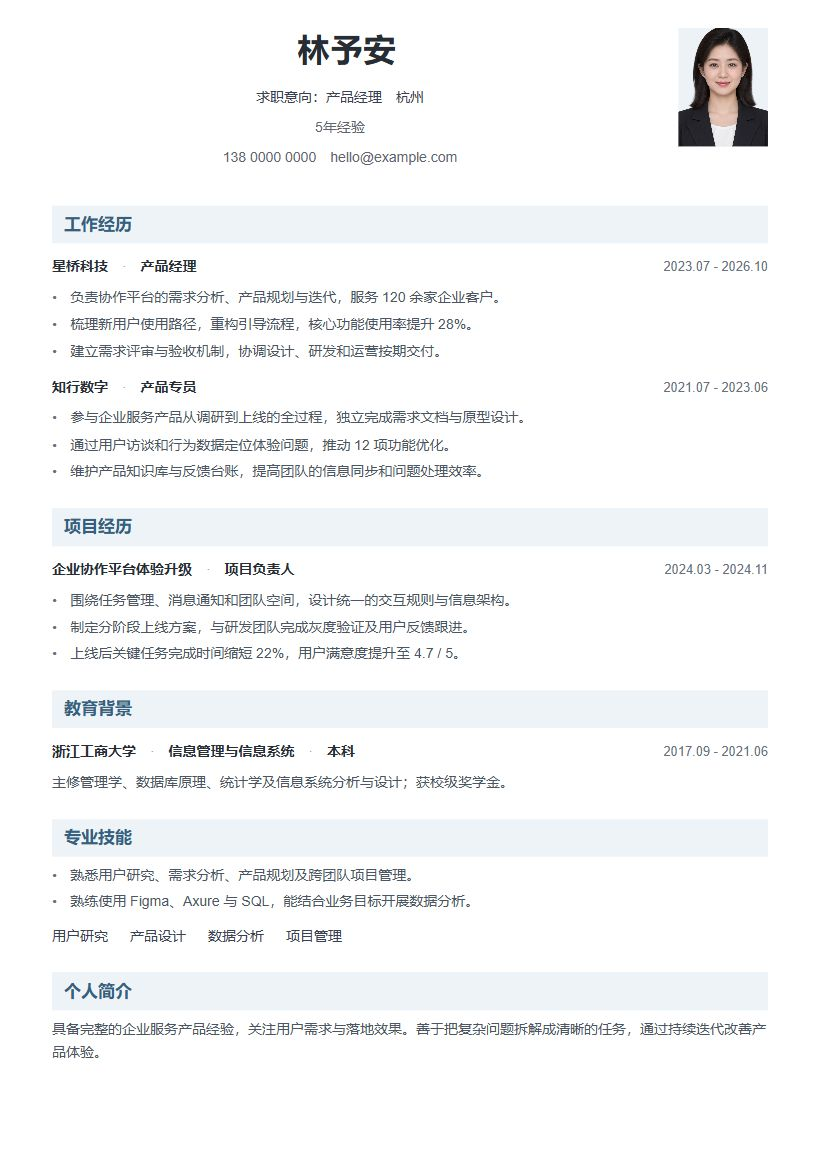
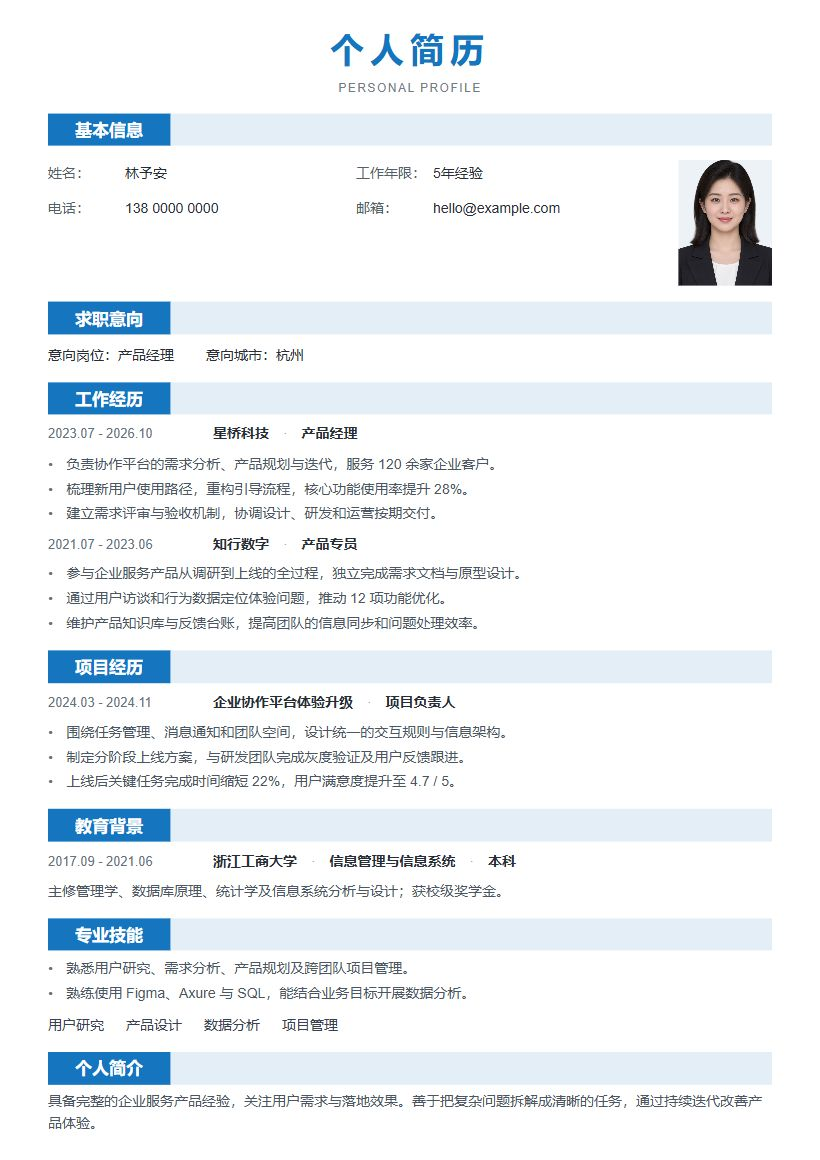
Restore classic blue layout and expose mobile editing on entry

diff --git a/assets/js/standard-renderer.js b/assets/js/standard-renderer.js
@@ -14,14 +14,17 @@ function age(birth){
 }
 
 /** Native HTML rendering of the shared resume data model. No reference-site assets. */
-export function renderStandard(resume){
+export function renderStandard(resume,{layout}={}){
+  const bands=layout==='bands';
   const settings=resume.setData||{},basic=resume.basicInfo||{};
   const size=number(settings.fontSize,10,18,14),gap=number(settings.mm,5,50,24),padding=number(settings.pp,10,80,52),leading=number(settings.lineHeight,1.3,2.2,1.7);
   const color=/^#[\da-f]{6}$/i.test(settings.skin||'')?settings.skin:'#284967';
   const order=getModuleOrder(resume),modules=new Map((resume.moduleData||[]).map(mod=>[mod.moduleName,mod]));
-  const intent=modules.get('yixiang'),merged=order.indexOf('yixiang')===order.indexOf('basic')+1;
+  const intent=modules.get('yixiang'),merged=!bands&&order.indexOf('yixiang')===order.indexOf('basic')+1;
+  const channels=color.slice(1).match(/../g).map(value=>parseInt(value,16)).join(',');
+  const heading=label=>`<div class="module_tit" style="font-size:${size+3}px;color:${color};border-color:${color}${bands?`;background:rgba(${channels},.12)`:''}">${bands?`<b>${escape(label)}</b>`:escape(label)}</div>`;
   const rich=content=>content?`<div class="ql-editor" style="font-size:${size}px;line-height:${leading};margin-top:7px">${content}</div>`:'';
-  const section=(mod,content)=>mod?.visible&&content?`<section id="${escape(mod.moduleName)}" class="resume_content" style="margin-top:${gap}px"><div class="module_tit" style="font-size:${size+3}px;color:${color};border-color:${color}">${escape(mod.moduleValue||'')}</div>${content}</section>`:'';
+  const section=(mod,content)=>mod?.visible&&content?`<section id="${escape(mod.moduleName)}" class="resume_content" style="margin-top:${gap}px">${heading(mod.moduleValue||'')}${content}</section>`:'';
   const timeline=mod=>{
     const rows=(Array.isArray(mod.data)?mod.data:[]).filter(item=>item&&(item.name||item.job||item.major||item.content||item.timeStart||item.timeEnd));
     return rows.map(item=>{
@@ -30,6 +33,13 @@ export function renderStandard(resume){
     }).join('');
   };
   const header=()=>{
+    if(bands){
+      const experience=basic.workYears!==''&&basic.workYears!==null&&basic.workYears!==undefined&&Number(basic.workYears)>=0?WORK_YEARS[Number(basic.workYears)+1]:'';
+      const fields=[['姓名',basic.name||'你的姓名'],[basic.isAge===false?'出生年月':'年龄',basic.isAge===false?basic.birthday:age(basic.birthday)],['性别',optionalLabel(SEX,basic.sex)],['工作年限',experience],['电话',basic.mobile],['邮箱',basic.email],['民族',basic.minzu],['籍贯',basic.jiguan],['政治面貌',optionalLabel(POLITICS,basic.zhengzhi)],['婚姻状况',optionalLabel(MARRIAGE,basic.hunyin)],['身高',basic.height?`${basic.height}cm`:''],['体重',basic.weight?`${basic.weight}kg`:''],...(Array.isArray(basic.make)?basic.make:[]).filter(item=>item?.value).map(item=>[item.keyValue||'',item.value])];
+      const rows=fields.filter(([,value])=>value!==''&&value!==null&&value!==undefined).map(([label,value])=>`<dd><span class="profile-label">${escape(label)}</span><span${label==='姓名'?' id="myname"':''}>${escape(value)}</span></dd>`).join('');
+      const photo=basic.photoShow?`<div class="photo_box${basic.photo?'':' is-default'}" data-photo-slot title="点击更换照片">${basic.photo?`<img src="${escape(basic.photo)}" alt="照片">`:'<span class="standard-photo-placeholder">添加照片</span>'}</div>`:'';
+      return `<section id="basicInfo" class="resume_content standard-basic" style="margin-top:${gap}px">${heading('基本信息')}<div class="basic_info_box${basic.photoShow?' has-photo':''}"><dl class="basic_info_grid">${rows}</dl>${photo}</div></section>`;
+    }
     const extra=(Array.isArray(basic.make)?basic.make:[]).filter(item=>item?.value).map(item=>`${item.keyValue||''}：${item.value}`);
     const profile=[basic.isAge===false?basic.birthday:age(basic.birthday),optionalLabel(SEX,basic.sex),basic.minzu,optionalLabel(MARRIAGE,basic.hunyin),basic.height?`${basic.height}cm`:'',basic.weight?`${basic.weight}kg`:'',optionalLabel(POLITICS,basic.zhengzhi),basic.jiguan,Number(basic.workYears)>=0?WORK_YEARS[Number(basic.workYears)+1]:'',...extra];
     const goal=merged&&intent?.visible?intent.data||{}:{};
@@ -40,7 +50,11 @@ export function renderStandard(resume){
     if(name==='basic')return header();
     const mod=modules.get(name);if(!mod?.visible)return '';
     if(['jiaoyu','work','project','shixi','xiaoyuan'].includes(name))return section(mod,timeline(mod));
-    if(name==='yixiang')return merged?'':section(mod,spans(Object.values(mod.data||{})));
+    if(name==='yixiang'){
+      const goal=mod.data||{};
+      const content=bands?spans([goal.job?`意向岗位：${goal.job}`:'',goal.city?`意向城市：${goal.city}`:'',goal.money?`期望薪资：${goal.money}`:'',goal.joinTime?`到岗时间：${goal.joinTime}`:'']):spans(Object.values(goal));
+      return merged?'':section(mod,bands&&content?`<div class="standard-intent">${content}</div>`:content);
+    }
     if(name==='jineng'){
       const skills=(Array.isArray(mod.data)?mod.data:[]).map(item=>typeof item==='string'?item:item?.name).filter(Boolean);
       return section(mod,rich(mod.content)+(skills.length?`<ul class="standard-skills">${skills.map(skill=>`<li>${escape(skill)}</li>`).join('')}</ul>`:''));
@@ -57,5 +71,7 @@ export function renderStandard(resume){
   const basicIndex=order.indexOf('basic'),parts=order.map(render);
   const wrap=content=>content.some(Boolean)?`<div class="resume_content_all" style="margin:0 ${padding}px">${content.join('')}</div>`:'';
   const font=FONTS.find(item=>item.value===Number(settings.font))||FONTS[0];
-  return `<div class="resume_all"><div class="pc_main"><div class="${escape(font.cls)}"><article class="resume_box">${wrap(parts.slice(0,basicIndex))}${parts[basicIndex]}${wrap(parts.slice(basicIndex+1))}</article></div></div></div>`;
+  const title=bands&&(settings.title||settings.slogan)?`<header id="resumeHead" class="standard-document-title" style="padding:28px ${padding}px 0;color:${color}">${settings.title?`<h1>${escape(settings.title)}</h1>`:''}${settings.slogan?`<p>${escape(settings.slogan)}</p>`:''}</header>`:'';
+  const content=bands?title+wrap(parts):wrap(parts.slice(0,basicIndex))+parts[basicIndex]+wrap(parts.slice(basicIndex+1));
+  return `<div class="resume_all"><div class="pc_main"><div class="${escape(font.cls)}"><article class="resume_box">${content}</article></div></div></div>`;
 }

diff --git a/assets/js/tpl-extended.js b/assets/js/tpl-extended.js
@@ -4,11 +4,11 @@ import {renderStandard} from './standard-renderer.js';
 // All markup, styling and preview images are generated by this project's renderer.
 export const EXTENDED_TEMPLATES = [
   {id:1013,code:'JY05',name:'经典简约',desc:'清晰单栏 · 轻量时间轴 · 技能标签',variant:'classic',style:{skin:'#3d6571',font:1,fontSize:14,mm:24,pp:52,lineHeight:1.7}},
-  {id:1044,code:'JY06',name:'蓝色横条',desc:'居中页眉 · 淡色标题栏 · 层次清晰',variant:'bands',style:{skin:'#355f83',font:1,fontSize:14,mm:24,pp:52,lineHeight:1.7}},
+  {id:1044,code:'JY06',name:'经典蓝色',desc:'蓝色标题块 · 双列基本信息 · 独立求职意向',variant:'bands',style:{skin:'#1575bf',font:1,fontSize:14,mm:16,pp:48,lineHeight:1.55}},
   {id:1045,code:'JY07',name:'极简线条',desc:'居中姓名 · 双线分隔 · 日期靠右',variant:'lines',style:{skin:'#343a40',font:1,fontSize:14,mm:24,pp:52,lineHeight:1.7}},
   {id:1002,code:'JY08',name:'商务页眉',desc:'深色页眉 · 右侧照片 · 正式单栏',variant:'masthead',style:{skin:'#294c68',font:1,fontSize:14,mm:24,pp:52,lineHeight:1.7}},
   {id:1007,code:'JY09',name:'折角飘带',desc:'折角标题 · 简洁单栏 · 重点突出',variant:'ribbon',style:{skin:'#4d687b',font:1,fontSize:14,mm:24,pp:52,lineHeight:1.7}},
   {id:1046,code:'JY10',name:'圆形时间轴',desc:'圆形照片 · 时间轴节点 · 轻盈留白',variant:'round',style:{skin:'#4b7784',font:1,fontSize:14,mm:24,pp:52,lineHeight:1.7}},
-].map(template=>({...template,scope:'data-v-standard',thumbnail:`/assets/img/templates/${template.id}.png`,render:resume=>
-  renderStandard(resume).replace('class="resume_all"',`class="resume_all standard-resume standard-${template.variant}" style="--standard-font:${Math.min(18,Math.max(10,Number(resume.setData?.fontSize)||14))}px;--standard-line:${Math.min(2.2,Math.max(1.3,Number(resume.setData?.lineHeight)||1.7))};--standard-accent:${/^#[\da-f]{6}$/i.test(resume.setData?.skin||'')?resume.setData.skin:template.style.skin}"`),
+].map(template=>({...template,scope:'data-v-standard',thumbnail:`/assets/img/templates/${template.id}.png${template.id===1044?'?v=classic-blue':''}`,render:resume=>
+  renderStandard(resume,{layout:template.variant}).replace('class="resume_all"',`class="resume_all standard-resume standard-${template.variant}" style="--standard-font:${Math.min(18,Math.max(10,Number(resume.setData?.fontSize)||14))}px;--standard-line:${Math.min(2.2,Math.max(1.3,Number(resume.setData?.lineHeight)||1.7))};--standard-accent:${/^#[\da-f]{6}$/i.test(resume.setData?.skin||'')?resume.setData.skin:template.style.skin}"`),
 }));

diff --git a/assets/css/tpl-standard.css b/assets/css/tpl-standard.css
@@ -40,8 +40,24 @@
 .standard-classic .content_list { position:relative; border-left:1px solid #dce4e7; padding-left:18px; }
 .standard-classic .content_list::before { content:''; position:absolute; left:-4px; top:8px; width:7px; height:7px; background:var(--standard-accent); border-radius:50%; }
 .standard-classic .standard-skills li { border:1px solid #dce4e7; padding:2px 9px; border-radius:4px; }
-.standard-bands .basic_info,.standard-lines .basic_info { text-align:center; }
-.standard-bands .module_tit { border:0; background:#eef3f7; padding:5px 12px; }
+.standard-lines .basic_info { text-align:center; }
+.standard-bands .resume_box { padding-bottom:24px; }
+.standard-bands .standard-document-title { text-align:center; }
+.standard-bands .standard-document-title h1 { font-size:34px; line-height:1.3; font-weight:700; letter-spacing:6px; margin:0; }
+.standard-bands .standard-document-title p { color:#737d88; font-size:12px; line-height:1.5; letter-spacing:1.5px; margin:7px 0 0; }
+.standard-bands .module_tit { border:0; padding:0; line-height:1.8; }
+.standard-bands .module_tit b { display:inline-block; min-width:122px; padding:1px 18px; text-align:center; color:#fff; background:var(--standard-accent); }
+.standard-bands .basic_info_box { min-height:0; margin-top:14px; }
+.standard-bands .basic_info_box.has-photo { min-height:126px; padding-right:128px; }
+.standard-bands .basic_info_grid { display:grid; grid-template-columns:repeat(2,minmax(0,1fr)); column-gap:20px; row-gap:11px; padding-top:2px; }
+.standard-bands .basic_info_grid dd { display:flex; align-items:baseline; min-width:0; line-height:1.7; overflow-wrap:anywhere; }
+.standard-bands .profile-label { flex:0 0 5em; margin-right:7px; color:#535f6a; white-space:nowrap; }
+.standard-bands .profile-label::after { content:'：'; }
+.standard-bands .basic_info_grid dd > span:last-child { min-width:0; }
+.standard-bands .photo_box { top:0; right:0; width:94px; height:126px; }
+.standard-bands .list_top { flex-direction:row-reverse; gap:20px; }
+.standard-bands .list_top .time { width:145px; text-align:left; }
+.standard-bands .standard-intent { display:flex; flex-wrap:wrap; gap:8px 32px; margin-top:10px; }
 .standard-lines .basic_info_box { border-bottom:2px solid var(--standard-accent); }
 .standard-lines .module_tit { border-bottom:1px solid #b5bdc4; padding-bottom:7px; letter-spacing:1px; }
 .standard-lines .content_list { margin-bottom:3px; }

diff --git a/assets/js/app.js b/assets/js/app.js
@@ -101,6 +101,10 @@ function renderPreview() {
   if (!host) return;
   const html = renderByTpl(r);
   if (html !== previewHTML) { host.innerHTML = html; previewHTML = html; }
+  const empty=!hasResumeContent(r);
+  $('.preview-pane')?.classList.toggle('is-empty',empty);
+  const guidance=$('.preview-empty');
+  if(guidance)guidance.hidden=!empty;
 
   const box = host.querySelector('.resume_box');
   const h = box ? box.offsetHeight : 0;
@@ -195,7 +199,9 @@ function setupWorkspace() {
   preview.className = 'preview-pane';
   preview.setAttribute('aria-label', '简历实时预览');
   preview.innerHTML = `<div class="preview-heading"><div><strong>简历预览</strong><span class="live-indicator save-status" id="saveStatus" role="status" aria-live="polite">自动保存已开启</span></div><span id="pageNum"></span></div>
+    <div class="preview-empty" hidden><strong>从填写姓名开始</strong><p>填写的信息会自动排版在这里，也可以选择模板，从示例开始修改。</p><button type="button">开始填写</button></div>
     <div class="preview-scroll"><div class="preview-paper"></div></div>`;
+  preview.querySelector('.preview-empty button').addEventListener('click',()=>selectEditorModule('basic'));
   preview.querySelector('.preview-paper').appendChild(paper);
   const previewHeading = preview.querySelector('.preview-heading');
   const editorHeading = document.createElement('div');
@@ -776,6 +782,14 @@ export function bootEditor() {
   renderTabs();
   renderForm($('#formHost'));
   renderPreview();
+  // Finalize entry after all draft/template initialization. A history-restored
+  // page must also expose the form instead of reviving a folded blank preview.
+  const showEntryForm=()=>{
+    setEditorOpen(true,{animate:false});
+    if(window.matchMedia('(max-width: 860px)').matches)window.scrollTo({top:0,behavior:'instant'});
+  };
+  showEntryForm();
+  window.addEventListener('pageshow',event=>{if(event.persisted)showEntryForm();});
 
   onChange(opts => {
     queuePreview();

diff --git a/resume.html b/resume.html
@@ -29,7 +29,7 @@
 <link rel="stylesheet" href="/assets/css/palette.css">
 <link rel="stylesheet" href="/assets/vendor/quill.snow.css">
 <link rel="stylesheet" href="/assets/css/editor-base.css">
-<link rel="stylesheet" href="/assets/css/tpl-standard.css">
+<link rel="stylesheet" href="/assets/css/tpl-standard.css?v=20261112-blue">
 <link rel="stylesheet" href="/assets/css/editor.css">
 <link rel="stylesheet" href="/assets/css/workspace.css">
 <link rel="stylesheet" href="/assets/css/theme.css">
@@ -38,9 +38,9 @@
 <link rel="stylesheet" href="/assets/css/experience.css">
 <link rel="stylesheet" href="/assets/css/interface.css">
 <link rel="stylesheet" href="/assets/css/editor-polish.css">
-<link rel="stylesheet" href="/assets/css/mobile-editor.css">
+<link rel="stylesheet" href="/assets/css/mobile-editor.css?v=20261112-entry">
 <link rel="preload" href="/assets/vendor/quill.js" as="script">
-<link rel="modulepreload" href="/assets/js/app.js">
+<link rel="modulepreload" href="/assets/js/app.js?v=20261112-entry">
 </head>
 <body>
 <div class="editor-startup" id="editorStartup">
@@ -74,6 +74,6 @@
   </main>
 </section>
 <script>setTimeout(function () { if (document.documentElement.dataset.editorState === 'loading') document.documentElement.dataset.editorState = 'error'; }, 15000);</script>
-<script type="module" src="/assets/js/editor-entry.js" onerror="document.documentElement.dataset.editorState='error'"></script>
+<script type="module" src="/assets/js/editor-entry.js?v=20261112-entry" onerror="document.documentElement.dataset.editorState='error'"></script>
 </body>
 </html>

diff --git a/assets/css/mobile-editor.css b/assets/css/mobile-editor.css
@@ -1,5 +1,6 @@
 /* Mobile uses the browser's page scroll, including when the keyboard is open. */
 .mobile-module-bar { display:none; }
+.preview-empty { display:none; }
 @media screen and (max-width:860px) {
   html { height:auto; min-height:100%; overflow-x:hidden; overflow-y:auto; }
   body { height:auto; min-height:100%; overflow:visible; }
@@ -43,6 +44,11 @@
   #resumeEditorPanel .ql-editor { min-height:200px; overflow:visible; }
   .editor-footer { padding-bottom:max(16px,env(safe-area-inset-bottom)); }
   .preview-pane { display:block; height:auto; }
+  .preview-pane.is-empty .preview-scroll { display:none; }
+  .preview-empty:not([hidden]) { display:block; padding:32px 24px; margin-top:12px; border:1px solid var(--ui-line); border-radius:14px; background:var(--ui-surface); color:var(--ui-text); }
+  .preview-empty strong { font-size:20px; }
+  .preview-empty p { margin:12px 0 24px; color:var(--ui-muted); font-size:14px; line-height:1.8; }
+  .preview-empty button { min-height:44px; width:100%; border:0; border-radius:8px; background:var(--ui-accent); color:#fff; font-size:15px; cursor:pointer; touch-action:manipulation; }
   .preview-scroll { display:block; height:auto; overflow:visible; overscroll-behavior:auto; scrollbar-gutter:auto; }
   .preview-paper { min-height:0; padding:0 12px 24px; }
   .qm-toast { bottom:max(24px,env(safe-area-inset-bottom)); max-width:calc(100vw - 32px); }

diff --git a/assets/js/template-samples.js b/assets/js/template-samples.js
@@ -28,6 +28,7 @@ const sample={
 
 export function createTemplateSample(id){
   const resume=structuredClone(sample);resume.setData.tplId=Number(id);
+  if(Number(id)===1044){resume.setData.title='个人简历';resume.setData.slogan='PERSONAL PROFILE';}
   if([2002,2003].includes(Number(id)))resume.basicInfo.photoShow=false;
   return resume;
 }

diff --git a/assets/js/editor-entry.js b/assets/js/editor-entry.js
@@ -3,7 +3,7 @@ import { loadVendor } from './vendor-loader.js';
 async function startEditor() {
   try {
     const [{ bootEditor }] = await Promise.all([
-      import('./app.js'),
+      import('./app.js?v=20261112-entry'),
       loadVendor('/assets/vendor/quill.js', () => Boolean(window.Quill)),
     ]);
     bootEditor();
